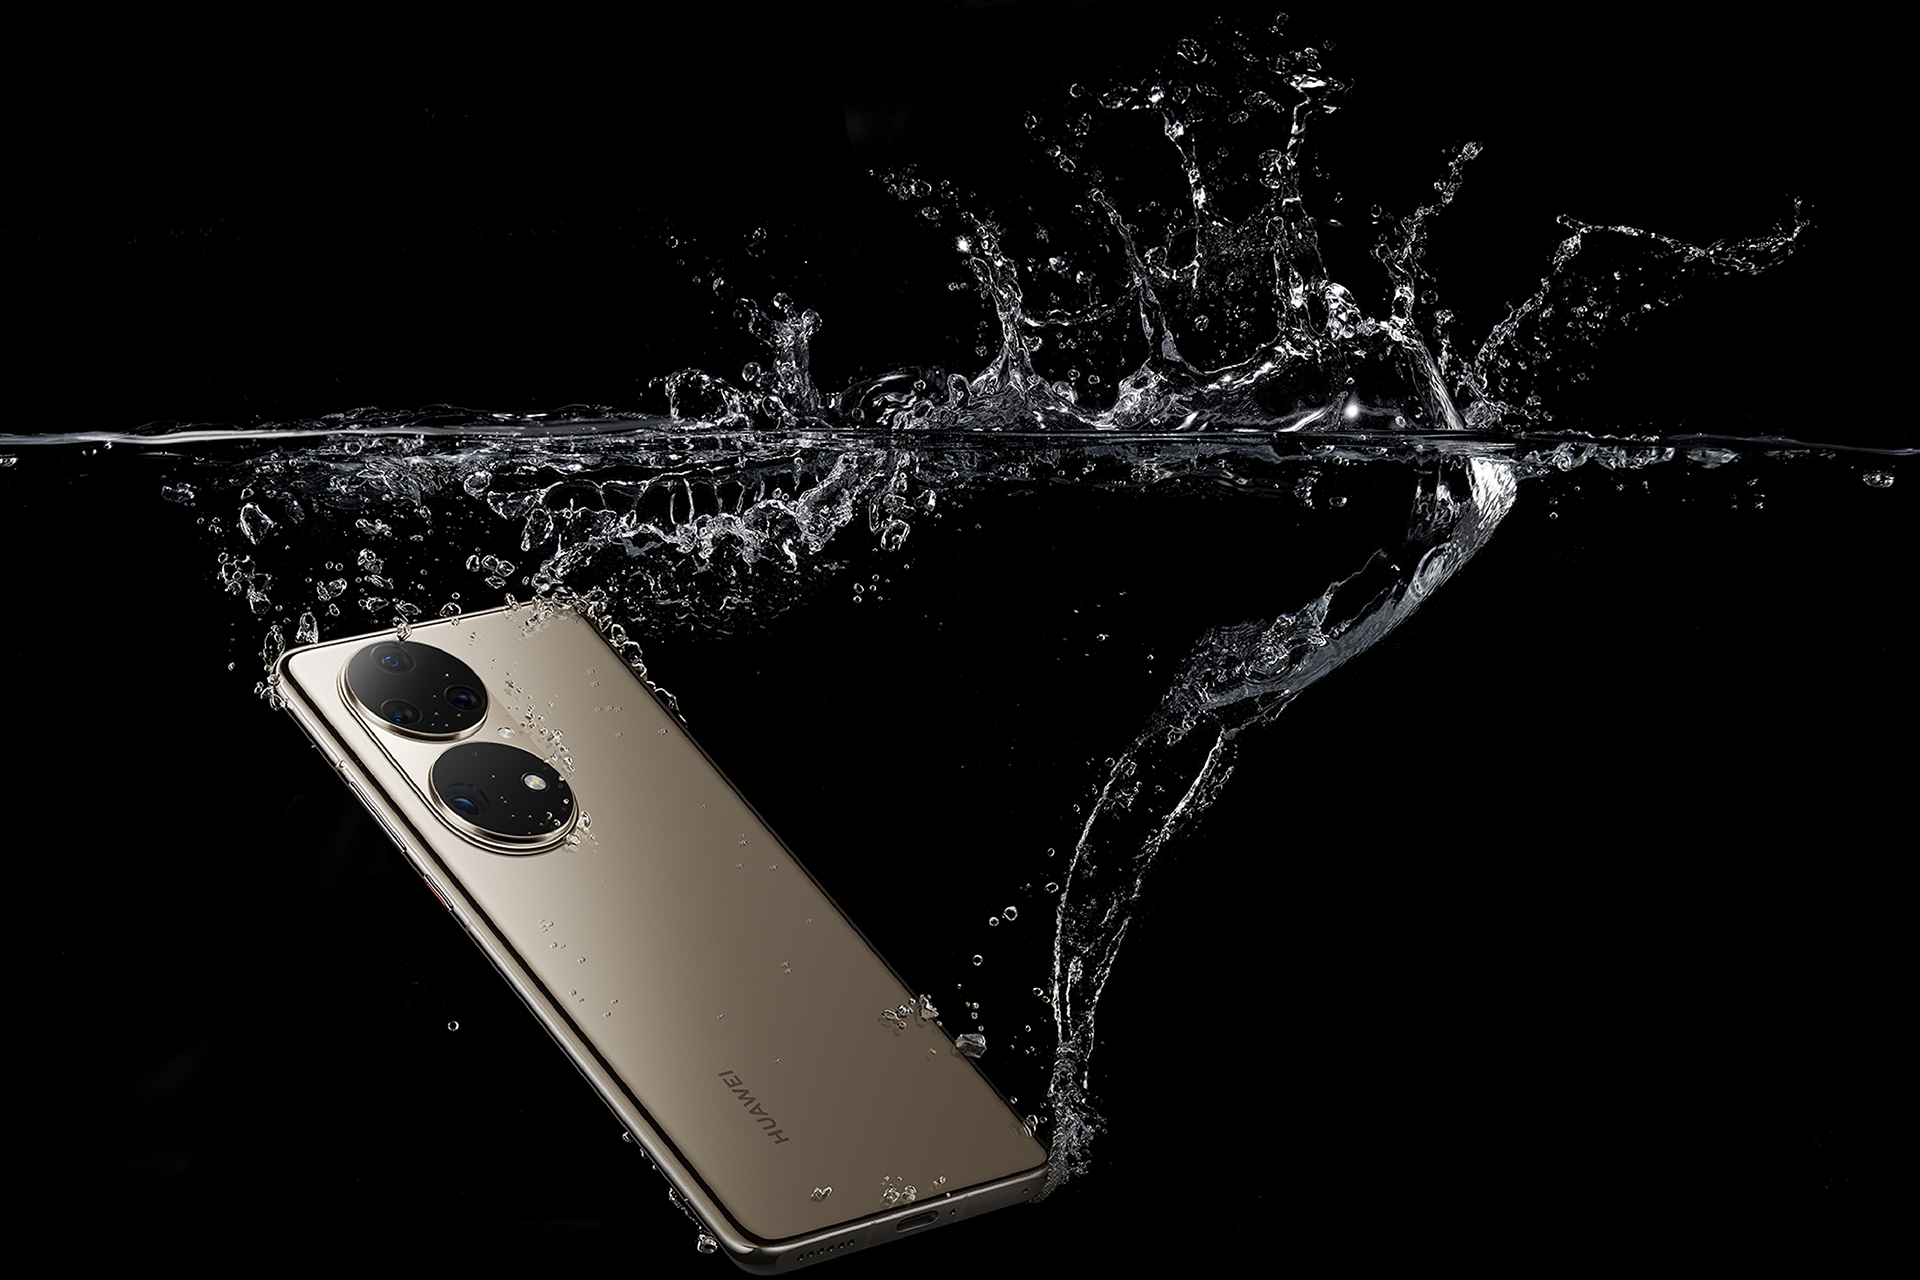
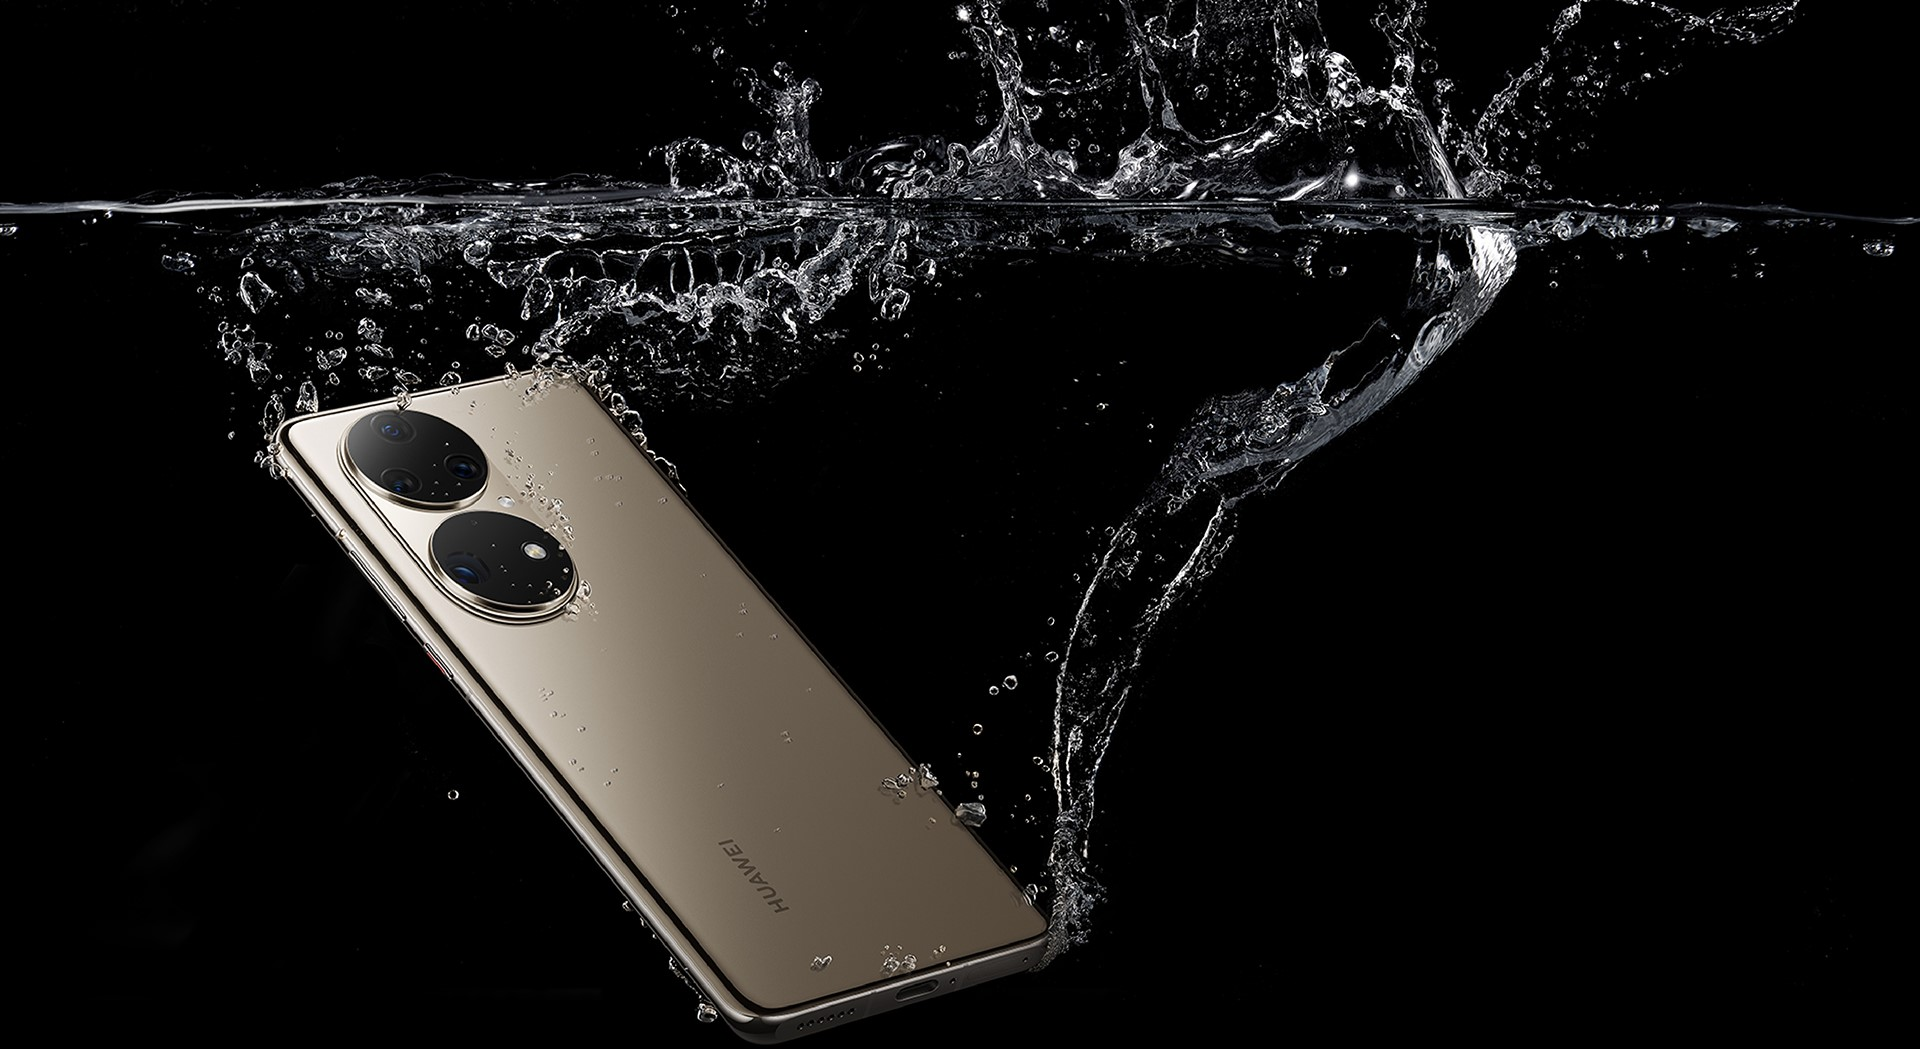
Drop down list in the header and text with button in the slides

Changed region(s): [[0.0, 0.0, 1.0, 1.0], [0.8125, 0.0, 0.9375, 0.0305]]

diff --git a/index.html b/index.html
@@ -29,7 +29,17 @@
         </a>
         <ul class="nav">
           <li class="nav-link">
-            <a href="./all-products.html">All products</a>
+            <div class="dropdown">
+              <button class="dropbtn">
+                <a href="./all-products.html">All products</a>
+                <i class="fa fa-caret-down"></i>
+              </button>
+              <div class="dropdown-content">
+                <a href="./phones.html">Phones</a>
+                <a href="./accessories.html">Accessories</a>
+                <a href="./services.html">Services</a>
+              </div>
+            </div>
           </li>
           <li class="nav-link">
             <a href="./about-us.html">About us</a>
@@ -54,8 +64,12 @@
     <div class="swiper">
       <div class="swiper-wrapper">
         <div class="swiper-slide">
-          <div class="over-slide">
-            <p>123</p>
+          <div class="over-slide slide-one">
+            <h2 class="over-slide-phone-title">iPhone 14 Pro Max</h2>
+            <p class="over-slide-phone-info">
+              <span class="over-slide-old-price">£1249</span> / £1149
+            </p>
+            <a href="#" class="over-slide-button">Buy now!</a>
           </div>
           <img
             src="./images/iphone.jpg"
@@ -64,6 +78,13 @@
           />
         </div>
         <div class="swiper-slide">
+          <div class="over-slide slide-two">
+            <h2 class="over-slide-phone-title">Samsung S23 Ultra</h2>
+            <p class="over-slide-phone-info">
+              <span class="over-slide-old-price">£1349</span> / £1249
+            </p>
+            <a href="#" class="over-slide-button">Buy now!</a>
+          </div>
           <img
             src="./images/samsung.jpg"
             class="swiper-slide-image"
@@ -71,6 +92,13 @@
           />
         </div>
         <div class="swiper-slide">
+          <div class="over-slide slide-three">
+            <h2 class="over-slide-phone-title">Huawei P50 Pro</h2>
+            <p class="over-slide-phone-info">
+              <span class="over-slide-old-price">£1549</span> / £1349
+            </p>
+            <a href="#" class="over-slide-button">Buy now!</a>
+          </div>
           <img
             src="./images/huawei.jpg"
             alt="Huawei P50 Pro "
@@ -88,7 +116,7 @@
           <li class="nav-link"><a href="/">Home page</a></li>
         </ul>
         <p>Copyright © 2023 Digital Index Co. All rights reserved.</p>
-        <p>UK - United Kingdom</p>
+        <p>United Kingdon - English</p>
         <p>22/05/2023 - 12:00</p>
         <p></p>
       </div>

diff --git a/css/style.css b/css/style.css
@@ -43,8 +43,6 @@ a:hover {
   max-width: 1200px;
   width: 100%;
   height: 600px;
-  margin-top: 50px;
-  margin-bottom: 50px;
 }
 
 .swiper-slide {
@@ -56,10 +54,33 @@ a:hover {
 .swiper-slide-image {
   max-width: 100vw;
   width: 100%;
+  height: 600px;
+  object-fit: cover;
 }
 
 .over-slide {
   position: absolute;
+  background: rgba(13, 57, 52, 0.8);
+  padding: 20px;
+  box-sizing: border-box;
+  border-radius: 10px;
+  color: white;
+  text-align: center;
+}
+
+.slide-one {
+  top: 350px;
+  left: 150px;
+}
+
+.slide-two {
+  top: 380px;
+  left: 800px;
+}
+
+.slide-three {
+  top: 355px;
+  left: 810px;
 }
 
 .swiper-button-next:after,
@@ -77,5 +98,98 @@ footer {
   font-size: 18px;
   padding: 10px 20px;
   background-color: #0d3934;
-  height: 100px;
+  height: 150px;
+}
+
+body {
+  font-family: Arial, Helvetica, sans-serif;
+}
+
+.dropdown {
+  float: left;
+  overflow: hidden;
+}
+
+.dropdown .dropbtn {
+  background-color: #0d3934;
+  color: #fff;
+  font-weight: 500;
+  font-size: 18px;
+  border: none;
+  outline: none;
+}
+
+.navbar a:hover,
+.dropdown:hover .dropbtn {
+  background-color: #0d3934;
+}
+
+.dropdown-content {
+  display: none;
+  position: absolute;
+  background-color: #fff;
+  min-width: 160px;
+  box-shadow: 0px 8px 16px 0px rgba(0, 0, 0, 0.2);
+  z-index: 999;
+}
+
+.dropdown-content a {
+  float: none;
+  color: #0d3934;
+  padding: 10px 10px;
+  text-decoration: none;
+  display: block;
+  text-align: left;
+}
+
+.dropdown-content a:hover {
+  background-color: #ddd;
+  text-decoration: underline;
+  transition: all 0.3s;
+}
+
+.dropdown:hover .dropdown-content {
+  display: block;
+}
+
+.over-slide-phone-title {
+  font-style: normal;
+  font-weight: 700;
+  font-size: 24px;
+  line-height: 29px;
+  padding: 0;
+  margin: 0;
+  margin-bottom: 5px;
+  text-align: start;
+}
+
+.over-slide-phone-info {
+  font-style: normal;
+  font-weight: 500;
+  font-size: 20px;
+  line-height: 29px;
+  padding: 0;
+  margin: 0;
+  margin-bottom: 10px;
+  text-align: start;
+}
+
+.over-slide-old-price {
+  text-decoration: line-through;
+}
+
+.over-slide-button {
+  border: 3px solid #ffffff;
+  border-radius: 6px;
+  padding: 5px 55px;
+  font-style: normal;
+  font-weight: 500;
+  font-size: 24px;
+  line-height: 29px;
+  transition: all 0.3s;
+}
+
+.over-slide-button:hover {
+  background-color: #fff;
+  color: #0d3934;
 }

diff --git a/js/main.js b/js/main.js
@@ -1,6 +1,11 @@
 const swiper = new Swiper(".swiper", {
   direction: "horizontal",
   loop: true,
+  speed: 800,
+  autoplay: {
+    delay: 5000,
+    disableOnInteraction: false,
+  },
   navigation: {
     nextEl: ".swiper-button-next",
     prevEl: ".swiper-button-prev",
